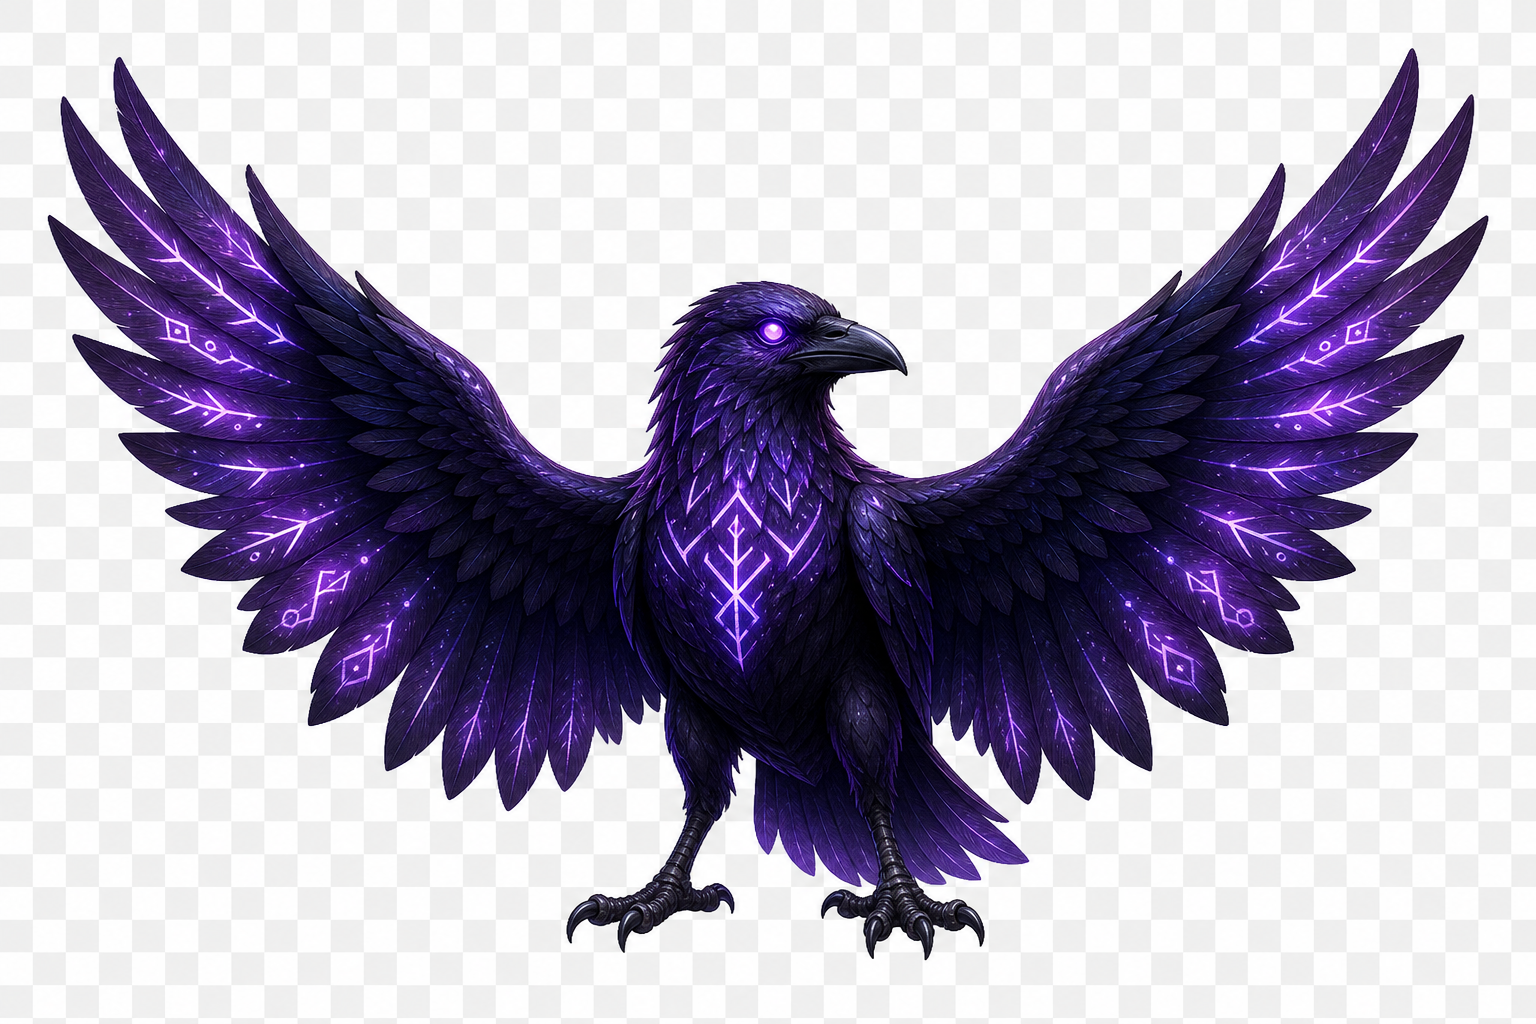
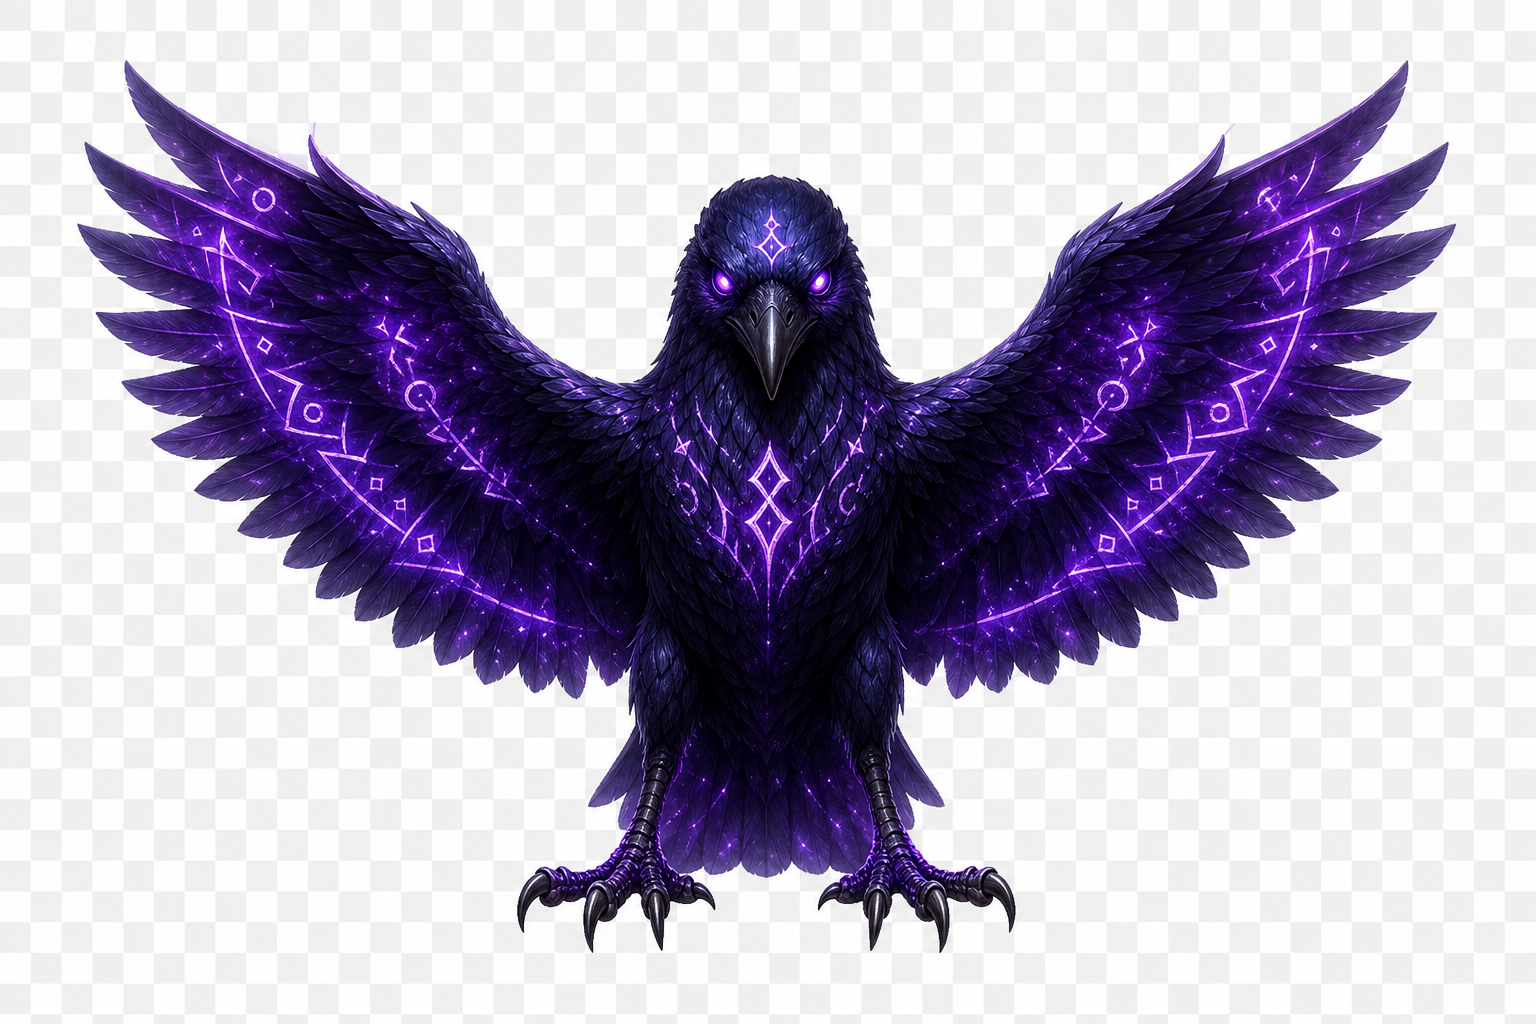
Fix raven to four talons per foot; add market and evolution share cards.
Regenerate Rune Raven with matching four-talon feet, update SVG fallback, show share prompts after big market cash-outs and on companion evolution milestones.

diff --git a/src/components/companion-evolution-share.tsx b/src/components/companion-evolution-share.tsx
@@ -1,0 +1,51 @@
+"use client";
+
+import { ShareCard } from "@/components/share-card";
+import type { CompanionState } from "@/lib/vibe-companion";
+
+export function CompanionEvolutionShare({
+  displayName,
+  username,
+  companion,
+  humanTitle,
+  animalTitle,
+}: {
+  displayName: string;
+  username?: string | null;
+  companion: CompanionState;
+  humanTitle: string;
+  animalTitle: string;
+}) {
+  const nearEvolve =
+    companion.nextName != null && companion.progress >= 0.85;
+  const maxed = companion.stage === 5;
+
+  return (
+    <div className="mt-4 space-y-3">
+      <ShareCard
+        kind="companion"
+        displayName={displayName}
+        username={username}
+        subline={`${humanTitle} & ${animalTitle} · Stage ${companion.stage}/5 ${companion.name}`}
+      />
+      {nearEvolve && (
+        <ShareCard
+          kind="win"
+          displayName={displayName}
+          username={username}
+          headline={`Evolving to ${companion.nextName} on Vibebet (${Math.round(companion.progress * 100)}%)`}
+          subline="Share your companion progress — invite friends to duel."
+        />
+      )}
+      {maxed && (
+        <ShareCard
+          kind="win"
+          displayName={displayName}
+          username={username}
+          headline="Max companion evolution — Archon tier unlocked!"
+          subline="Legend status on Vibebet."
+        />
+      )}
+    </div>
+  );
+}

diff --git a/src/components/trade-panel.tsx b/src/components/trade-panel.tsx
@@ -14,6 +14,9 @@ import {
   quoteSharesOut,
 } from "@/lib/cpmm";
 import { CANCEL_BET_PAYOUT_RATIO, quoteCancelBet } from "@/lib/cancel-bet";
+import { WinSharePanel } from "@/components/win-share-panel";
+
+const SHARE_WIN_MIN_VIBE = 150;
 
 type Props = {
   marketId: string;
@@ -28,6 +31,11 @@ type Props = {
   noLabel?: string;
   quickExitEnabled?: boolean;
   defaultMode?: "buy" | "sell" | "cancel";
+  shareProfile?: {
+    displayName: string;
+    username?: string | null;
+    marketQuestion?: string;
+  };
 };
 
 export function TradePanel({
@@ -43,6 +51,7 @@ export function TradePanel({
   noLabel = "No",
   quickExitEnabled = false,
   defaultMode = "buy",
+  shareProfile,
 }: Props) {
   const [mode, setMode] = useState<"buy" | "sell" | "cancel">(defaultMode);
   const [side, setSide] = useState<"yes" | "no">("yes");
@@ -312,14 +321,29 @@ export function TradePanel({
         <p className="text-sm text-rose-400">{state.error}</p>
       )}
       {state && "success" in state && (
-        <p className="text-sm text-emerald-400">
-          {state.success.kind === "buy" &&
-            `Bought ${formatVibe(state.success.shares)} ${state.success.side} shares.`}
-          {state.success.kind === "sell" &&
-            `Sold for ${formatVibe(state.success.proceeds)} VIBE.`}
-          {state.success.kind === "quick_exit" &&
-            `Cancelled: ${formatVibe(state.success.proceeds)} VIBE returned (${Math.round(CANCEL_BET_PAYOUT_RATIO * 100)}%).`}
-        </p>
+        <>
+          <p className="text-sm text-emerald-400">
+            {state.success.kind === "buy" &&
+              `Bought ${formatVibe(state.success.shares)} ${state.success.side} shares.`}
+            {state.success.kind === "sell" &&
+              `Sold for ${formatVibe(state.success.proceeds)} VIBE.`}
+            {state.success.kind === "quick_exit" &&
+              `Cancelled: ${formatVibe(state.success.proceeds)} VIBE returned (${Math.round(CANCEL_BET_PAYOUT_RATIO * 100)}%).`}
+          </p>
+          {shareProfile &&
+            (state.success.kind === "sell" || state.success.kind === "quick_exit") &&
+            state.success.proceeds >= SHARE_WIN_MIN_VIBE && (
+              <WinSharePanel
+                displayName={shareProfile.displayName}
+                username={shareProfile.username}
+                headline={
+                  shareProfile.marketQuestion
+                    ? `Cashed out ${formatVibe(state.success.proceeds)} VIBE on “${shareProfile.marketQuestion.slice(0, 60)}${shareProfile.marketQuestion.length > 60 ? "…" : ""}”`
+                    : `Cashed out ${formatVibe(state.success.proceeds)} VIBE on Vibebet`
+                }
+              />
+            )}
+        </>
       )}
     </div>
   );

diff --git a/src/app/markets/[id]/page.tsx b/src/app/markets/[id]/page.tsx
@@ -74,7 +74,7 @@ export default async function MarketDetailPage({
   const limitOrdersEnabled = await isEnabled("limit_orders_enabled");
   const quickExitEnabled = await isEnabled("quick_exit_enabled");
 
-  const [creator, position, trades, vibeBalance, comments, priceHistory, dispute, newsHeadlines, activityFeed] =
+  const [creator, position, trades, vibeBalance, comments, priceHistory, dispute, newsHeadlines, activityFeed, profileRow] =
     await Promise.all([
       getCreatorName(market.creator_id),
       user ? getUserPosition(market.id, user.id) : Promise.resolve(null),
@@ -85,6 +85,14 @@ export default async function MarketDetailPage({
       market.status === "in_court" ? getDisputeForMarket(market.id) : Promise.resolve(null),
       fetchRelatedNews(market.question, 3),
       liveFeedEnabled ? getActivityFeed(8) : Promise.resolve([]),
+      user
+        ? supabase
+            .from("profiles")
+            .select("display_name, username")
+            .eq("id", user.id)
+            .maybeSingle()
+            .then((r) => r.data)
+        : Promise.resolve(null),
     ]);
 
   const pool = { reserveYes: market.reserve_yes, reserveNo: market.reserve_no };
@@ -536,6 +544,15 @@ export default async function MarketDetailPage({
                   yesLabel={market.outcome_yes_label}
                   noLabel={market.outcome_no_label}
                   quickExitEnabled={quickExitEnabled}
+                  shareProfile={
+                    profileRow
+                      ? {
+                          displayName: profileRow.display_name ?? "Player",
+                          username: profileRow.username,
+                          marketQuestion: market.question,
+                        }
+                      : undefined
+                  }
                 />
               </div>
             )}

diff --git a/src/app/account/profile/page.tsx b/src/app/account/profile/page.tsx
@@ -11,6 +11,8 @@ import { isEnabled } from "@/lib/feature-flags";
 import { getStreakInfo } from "@/lib/streaks";
 import { getMyPlayerCode } from "@/lib/player-code";
 import { ProfileShareSection } from "@/components/profile-share-section";
+import { CompanionEvolutionShare } from "@/components/companion-evolution-share";
+import { figureLabels, resolveFigureConfig } from "@/lib/companion-figure";
 
 export const revalidate = 0;
 
@@ -40,6 +42,9 @@ export default async function ProfilePage() {
     getMyPlayerCode().catch(() => null),
   ]);
 
+  const figureConfig = resolveFigureConfig(companionInput);
+  const companionLabels = figureLabels(figureConfig);
+
   return (
     <div className="mx-auto max-w-4xl px-6 py-10">
       <h1 className="text-2xl font-semibold">Account</h1>
@@ -55,6 +60,13 @@ export default async function ProfilePage() {
         <div className="mt-5">
           <VibeCompanionCard input={companionInput} />
         </div>
+        <CompanionEvolutionShare
+          displayName={profile?.display_name ?? playerCode?.display_name ?? "Player"}
+          username={profile?.username ?? playerCode?.username}
+          companion={figureConfig.companion}
+          humanTitle={companionLabels.humanTitle}
+          animalTitle={companionLabels.animalTitle}
+        />
         <p className="mt-4 text-xs text-zinc-500">
           Equipped: {equipped.skin?.name ?? "Default Oracle"}
           {equipped.badge ? ` · ${equipped.badge.name}` : ""}.

diff --git a/src/components/companion-sprites.tsx b/src/components/companion-sprites.tsx
@@ -228,10 +228,18 @@ function RavenSprite({ fill, dark, accent }: { fill: string; dark: string; accen
       <path d="M28 30 L24 22 L30 28" stroke={accent} strokeWidth="0.8" opacity="0.6" />
       <path d="M44 30 L48 22 L42 28" stroke={accent} strokeWidth="0.8" opacity="0.6" />
       <GlowEyes y={35} leftX={32} rightX={40} glow={accent} />
+      {/* left foot — 4 talons */}
       <path
-        d="M28 68 L26 72 M30 68 L30 72 M32 68 L32 72 M40 68 L40 72 M42 68 L42 72 M44 68 L44 72"
+        d="M24 68 L22 73 M26 68 L26 73 M28 68 L28 73 M30 68 L30 73"
         stroke="#f8fafc"
-        strokeWidth="1"
+        strokeWidth="1.1"
+        strokeLinecap="round"
+      />
+      {/* right foot — 4 talons */}
+      <path
+        d="M42 68 L42 73 M44 68 L44 73 M46 68 L46 73 M48 68 L48 73"
+        stroke="#f8fafc"
+        strokeWidth="1.1"
         strokeLinecap="round"
       />
       <path d="M48 56 Q58 60 62 68" stroke={dark} strokeWidth="2.5" fill="none" strokeLinecap="round" />